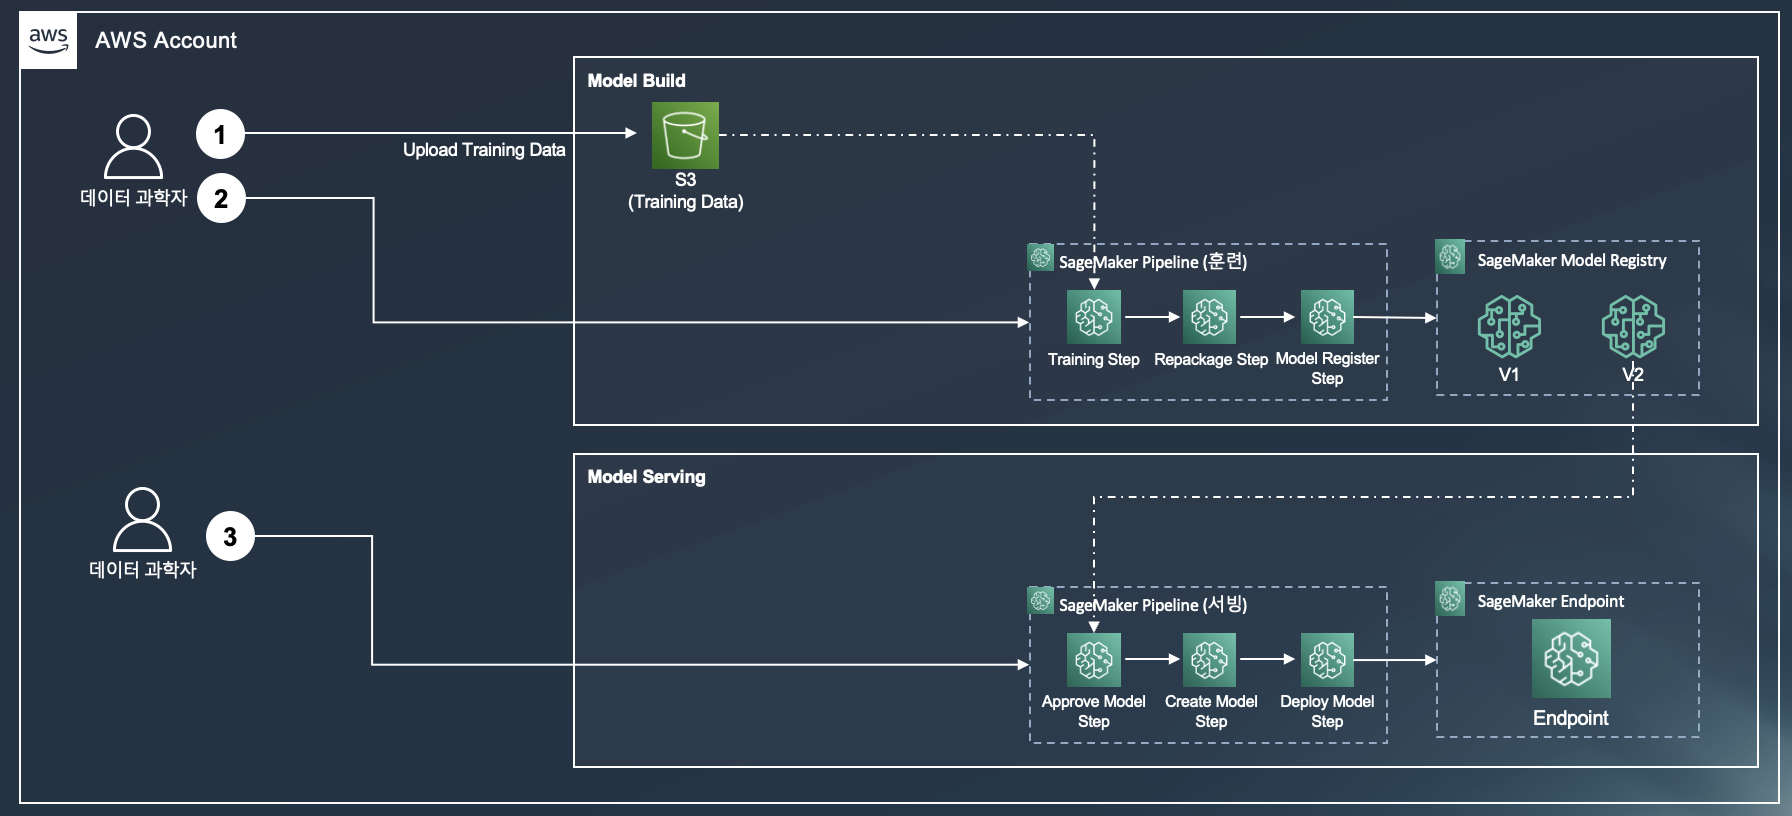
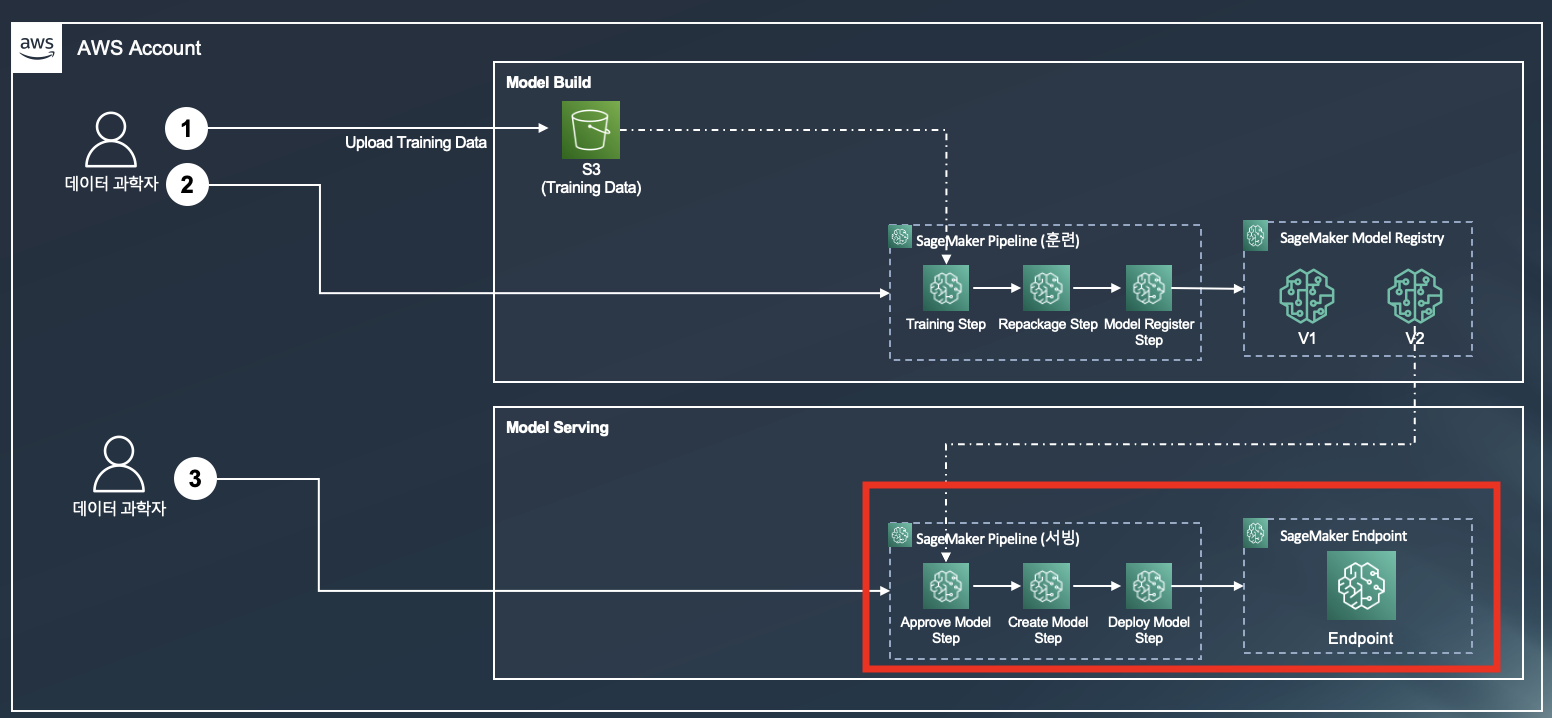
edit arch images

Changed region(s): [[0.0, 0.0, 1.0, 1.0], [0.4948, 0.1532, 0.6186, 0.1838]]

diff --git a/3_MLOps/README.md b/3_MLOps/README.md
@@ -19,7 +19,7 @@
 5. 모델 서빙을 위한 Code Pipeline 을 SageMaker Pipeline 으로 연결
 ![5_mlops_codepipe_sm_serving.png](img/5_mlops_codepipe_sm_serving.png)
 6. 이벤트 (에: S3에 데이터 업로드) 발생하여 모델 훈련 및 추론 파이프라인 실행 하기
-![final_mlops_archi.png](img/final_mlops_archi.png)
+![event_final_mlops_archi.png](img/6_event_bridge_rule.png)
 
 
 # C. 실습 설명
